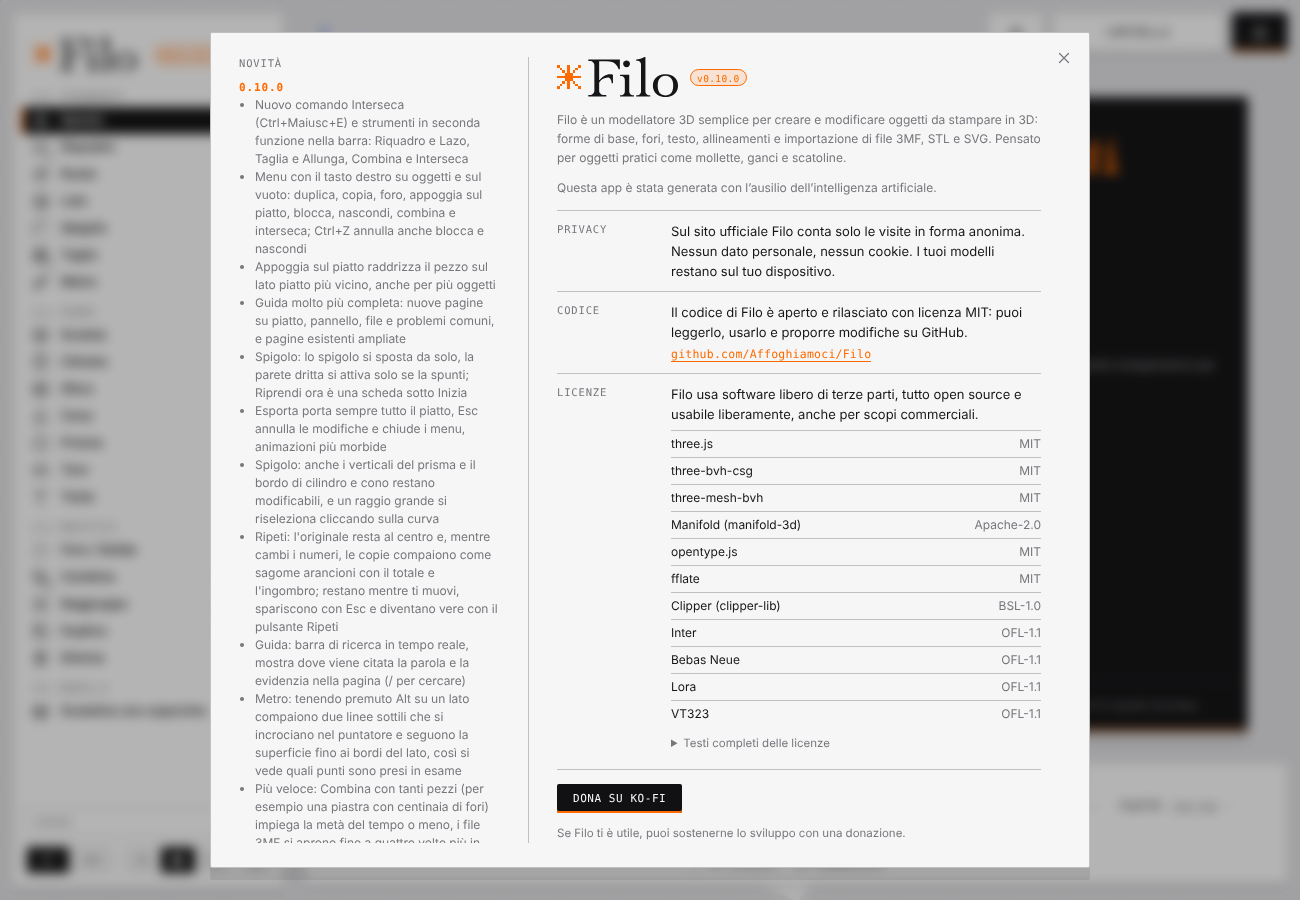
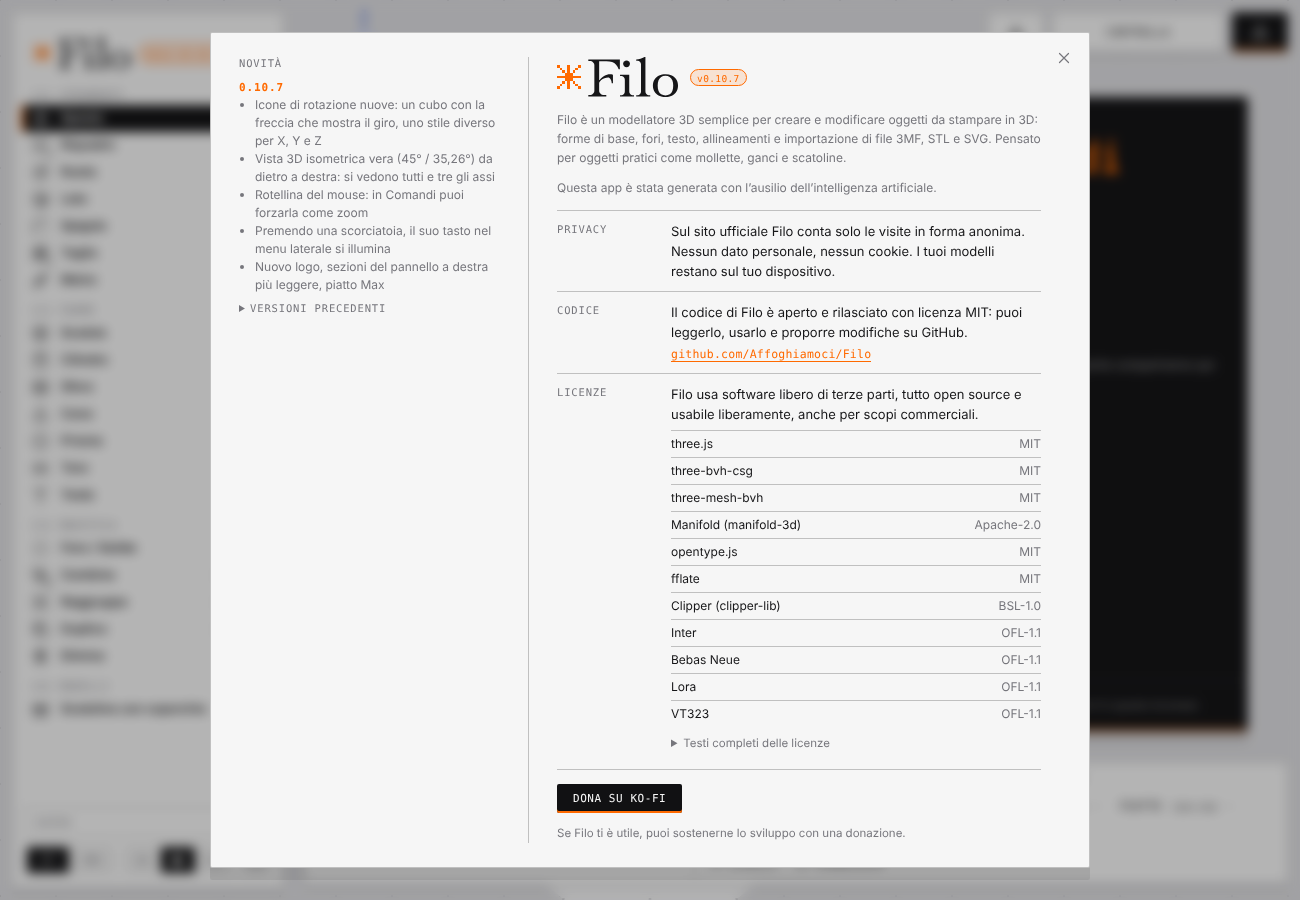
Vista 3D isometrica all'avvio, riparazione mesh che non peggiora i solidi chiusi, export con scelta della versione migliore, rimossi test obsoleti e varianti Plex
Claude-Session: https://claude.ai/code/session_01WMffiTQzqu1Hz4KkWX2bWH

Changed region(s): [[0.1846, 0.0933, 0.3692, 0.9333], [0.0923, 0.0311, 0.1231, 0.0622]]

diff --git a/src/main.js b/src/main.js
@@ -116,7 +116,7 @@ applyTheme();
 // Viste Davanti/Sopra/Destra: prospettiva quasi nulla (FOV minuscolo, camera lontana), quindi misure e allineamenti si leggono senza deformazioni.
 // cam.dist resta la distanza "equivalente" a FOV 35: l'inquadratura non cambia.
 const BASE_FOV = 35, ORTHO_FOV = 2, fovSprites = [];
-const cam = { az: 35, el: 28, dist: 320, fov: BASE_FOV, target: new THREE.Vector3(0, 0, 10) };
+const cam = { az: 135, el: 35.264, dist: 320, fov: BASE_FOV, target: new THREE.Vector3(0, 0, 10) };
 function applyCamera() {
   const az = cam.az * D2R, el = cam.el * D2R;
   const k = Math.tan(BASE_FOV * D2R / 2) / Math.tan(cam.fov * D2R / 2), D = cam.dist * k;
@@ -885,6 +885,18 @@ function openEdgeCount(g) {                                                    /
   for (let t = 0; t < tris.length; t += 3) for (let k = 0; k < 3; k++) { const e = key(tris[t + k], tris[t + (k + 1) % 3]); use.set(e, (use.get(e) || 0) + 1); }
   let c = 0; for (const u of use.values()) if (u === 1) c++; return c;
 }
+/* difetti di chiusura: lati senza il "gemello" opposto o usati più di una volta (0 = la mesh è chiusa, coordinate identiche tra triangoli vicini) */
+function edgeDefects(I) {
+  const use = new Map(); let bad = 0;
+  for (let t = 0; t < I.length; t += 3) for (let k = 0; k < 3; k++) { const a = I[t + k], b = I[t + (k + 1) % 3]; if (a === b) continue; const key = a * 4294967296 + b; use.set(key, (use.get(key) || 0) + 1); }
+  for (const [key, c] of use) { const a = Math.floor(key / 4294967296), b = key - a * 4294967296; if (c > 1 || use.get(b * 4294967296 + a) !== c) bad++; }
+  return bad;
+}
+function geoDefects(g) {
+  const p = g.attributes.position, idx = g.index, n = idx ? idx.count : p.count, map = new Map(), I = new Uint32Array(n);
+  for (let i = 0; i < n; i++) { const j = idx ? idx.getX(i) : i, k = p.getX(j) + ',' + p.getY(j) + ',' + p.getZ(j); let id = map.get(k); if (id === undefined) { id = map.size; map.set(k, id); } I[i] = id; }
+  return edgeDefects(I);
+}
 function bakeResult(res, name) {
   res.updateMatrixWorld(true);
   let g = res.geometry.clone();
@@ -892,7 +904,8 @@ function bakeResult(res, name) {
   g.applyMatrix4(res.matrixWorld);
   clean(g);
   if (window.__prof) console.log('PROF open prima', openEdgeCount(g), 'tri', g.attributes.position.count / 3);
-  g = healMesh(g);
+  { const d0 = geoDefects(g), h = healMesh(g);                                  // la riparazione (saldatura a 1 µm) non deve mai peggiorare: se rompe un pezzo già chiuso si tiene l'originale
+    if (h !== g && geoDefects(h) <= d0) g = h; }
   if (!g.index) g = geometryFromPositions(g.attributes.position.array);       // il risultato di Manifold arriva con normali piatte: si ricalcolano morbide (30°), così le pareti curve non fanno le fasce
   if (window.__prof) console.log('PROF open dopo', openEdgeCount(g));
   g.computeBoundingBox();
@@ -2447,12 +2460,22 @@ function build3MF(list, opt = {}) {
     m.updateMatrixWorld(true);
     let g = m.geometry.clone();
     g.deleteAttribute('normal'); g.deleteAttribute('uv');
-    g = mergeVertices(g, 1e-4);
-    const pos = g.attributes.position, idx = g.index;
-    const W = new Float32Array(pos.count * 3);
-    for (let k = 0; k < pos.count; k++) { v.fromBufferAttribute(pos, k).applyMatrix4(m.matrixWorld); W.set([+(v.x + off[0]).toFixed(4), +(v.y + off[1]).toFixed(4), +v.z.toFixed(4)], k * 3); }
-    const I0 = idx ? Uint32Array.from(idx.array) : Uint32Array.from({ length: pos.count }, (_, k) => k);
-    const R = repairForExport(W, I0);
+    const g0 = g;
+    const prep = (tol, dig) => {                                                 // tol: saldatura dei vertici; dig: decimali delle coordinate
+      const gg = tol ? mergeVertices(g0.clone(), tol) : g0.clone();
+      const pos = gg.attributes.position, idx = gg.index;
+      const W = new Float32Array(pos.count * 3);
+      for (let k = 0; k < pos.count; k++) { v.fromBufferAttribute(pos, k).applyMatrix4(m.matrixWorld); W.set([+(v.x + off[0]).toFixed(dig), +(v.y + off[1]).toFixed(dig), +v.z.toFixed(dig)], k * 3); }
+      const I0 = idx ? Uint32Array.from(idx.array) : Uint32Array.from({ length: pos.count }, (_, k) => k);
+      gg.dispose();
+      return repairForExport(W, I0);
+    };
+    let R = prep(1e-4, 4), bad = edgeDefects(R.I);
+    for (const [tol, dig] of bad ? [[1e-6, 6], [0, 7]] : []) {                    // saldatura e arrotondamento non devono rompere un pezzo: si riprova con più precisione e si tiene la versione migliore
+      const R2 = prep(tol, dig), b2 = edgeDefects(R2.I);
+      if (b2 < bad) { R = R2; bad = b2; }
+      if (!bad) break;
+    }
     { let vol = 0; for (let k = 0; k < R.I.length; k += 3) { const a = R.I[k] * 3, b = R.I[k + 1] * 3, c = R.I[k + 2] * 3, P = R.P; vol += (P[a] * (P[b + 1] * P[c + 2] - P[b + 2] * P[c + 1]) - P[a + 1] * (P[b] * P[c + 2] - P[b + 2] * P[c]) + P[a + 2] * (P[b] * P[c + 1] - P[b + 1] * P[c])) / 6; } if (Math.abs(vol) < 0.01 && list.length > 1) { if (opt.stat) opt.stat.dropped++; g.dispose(); return; } }
     let vs = '', ts = '';
     for (let k = 0; k < R.P.length; k += 3) vs += `<vertex x="${R.P[k]}" y="${R.P[k + 1]}" z="${R.P[k + 2]}"/>`;

diff --git a/src/index.template.html b/src/index.template.html
@@ -339,7 +339,7 @@
     <button id="info-close" class="icon-btn" aria-label="Chiudi"><svg viewBox="0 0 24 24"><path d="M6 6l12 12M18 6L6 18"/></svg></button>
     <div class="info-news"><span class="lbl">Novità</span><div class="cl">
       <b>0.10.7</b>
-      <ul><li>Icone di rotazione nuove: un cubo con la freccia che mostra il giro, uno stile diverso per X, Y e Z</li><li>Vista 3D isometrica vera (45° / 35,26°) da dietro a destra: si vedono tutti e tre gli assi</li><li>Rotellina del mouse: in Comandi puoi forzarla come zoom</li><li>Premendo una scorciatoia, il suo tasto nel menu laterale si illumina</li><li>Nuovo logo, sezioni del pannello a destra più leggere, piatto Max</li></ul>
+      <ul><li>Icone di rotazione nuove: un cubo con la freccia che mostra il giro, uno stile diverso per X, Y e Z</li><li>Vista 3D isometrica vera (45° / 35,26°) da dietro a destra: si vedono tutti e tre gli assi</li><li>Rotellina del mouse: in Comandi puoi forzarla come zoom</li><li>Premendo una scorciatoia, il suo tasto nel menu laterale si illumina</li><li>Nuovo logo, sezioni del pannello a destra più leggere, piatto Max</li><li>Calcoli più robusti sui pezzi con tanti dettagli piccoli (come le zigrinature): Filo non rovina più un solido già chiuso e l'esportazione sceglie la versione migliore</li><li>Vista 3D isometrica anche all'avvio</li></ul>
       <details><summary>Versioni precedenti</summary>
       <b>0.10.0</b>
       <ul><li>Nuovo comando Interseca (⇧⌘E) e strumenti in seconda funzione nella barra: Riquadro e Lazo, Taglia e Allunga, Combina e Interseca</li><li>Menu con il tasto destro su oggetti e sul vuoto: duplica, copia, foro, appoggia sul piatto, blocca, nascondi, combina e interseca; ⌘Z annulla anche blocca e nascondi</li><li>Appoggia sul piatto raddrizza il pezzo sul lato piatto più vicino, anche per più oggetti</li><li>Guida molto più completa: nuove pagine su piatto, pannello, file e problemi comuni, e pagine esistenti ampliate</li><li>Spigolo: lo spigolo si sposta da solo, la parete dritta si attiva solo se la spunti; Riprendi ora è una scheda sotto Inizia</li><li>Esporta porta sempre tutto il piatto, Esc annulla le modifiche e chiude i menu, animazioni più morbide</li><li>Spigolo: anche i verticali del prisma e il bordo di cilindro e cono restano modificabili, e un raggio grande si riseleziona cliccando sulla curva</li><li>Ripeti: l'originale resta al centro e, mentre cambi i numeri, le copie compaiono come sagome arancioni con il totale e l'ingombro; restano mentre ti muovi, spariscono con Esc e diventano vere con il pulsante Ripeti</li><li>Guida: barra di ricerca in tempo reale, mostra dove viene citata la parola e la evidenzia nella pagina (/ per cercare)</li><li>Metro: tenendo premuto ⌥ su un lato compaiono due linee sottili che si incrociano nel puntatore e seguono la superficie fino ai bordi del lato, così si vede quali punti sono presi in esame</li><li>Più veloce: Combina con tanti pezzi (per esempio una piastra con centinaia di fori) impiega la metà del tempo o meno, i file 3MF si aprono fino a quattro volte più in fretta, le ombre non si ricalcolano mentre giri la vista e Controlla stampa non blocca più il programma mentre lavora, con la percentuale di avanzamento</li><li>Il pannello delle proprietà è più largo: i numeri con segno e due decimali si leggono interi</li></ul>

diff --git a/src/i18n.js b/src/i18n.js
@@ -342,6 +342,8 @@ const EN = {
   'Rotellina del mouse: in Comandi puoi forzarla come zoom': 'Mouse wheel: in Controls you can force it as zoom',
   'Premendo una scorciatoia, il suo tasto nel menu laterale si illumina': 'Pressing a shortcut lights up its key in the side menu',
   'Nuovo logo, sezioni del pannello a destra più leggere, piatto Max': 'New logo, lighter sections in the right panel, Max plate',
+  'Calcoli più robusti sui pezzi con tanti dettagli piccoli (come le zigrinature): Filo non rovina più un solido già chiuso e l\'esportazione sceglie la versione migliore': 'More robust calculations on parts with many small details (such as knurling): Filo no longer damages an already closed solid and export picks the best version',
+  'Vista 3D isometrica anche all\'avvio': 'Isometric 3D view at startup too',
   'Nuovo comando Interseca (⇧⌘E) e strumenti in seconda funzione nella barra: Riquadro e Lazo, Taglia e Allunga, Combina e Interseca': 'New Intersect command (⇧⌘E) and tools with a second function in the bar: Marquee and Lasso, Cut and Stretch, Combine and Intersect',
   'I tuoi lavori salvati nella cache compariranno qui': 'Your work saved in the cache will show up here',
   'Si salva da solo, fino a 5 lavori in questo browser.': 'It saves itself, up to 5 works in this browser.',

diff --git a/src/mcsg.js b/src/mcsg.js
@@ -30,6 +30,21 @@ export function toManifold(brush) {
   } catch (e) { return null; }                                     // non è un solido chiuso
 }
 
+// vero se Manifold accetta la mesh come solido chiuso (null se il motore non è pronto). P: posizioni xyz, I: indici dei triangoli (o null se la mesh non è indicizzata)
+export function meshIsClosed(P, I) {
+  if (!M) return null;
+  let m = null;
+  try {
+    const tv = I ? Uint32Array.from(I) : Uint32Array.from({ length: P.length / 3 }, (_, k) => k);
+    const mesh = new M.Mesh({ numProp: 3, vertProperties: Float32Array.from(P), triVerts: tv });
+    mesh.merge();
+    m = new M.Manifold(mesh);
+    return m.status() === 'NoError';
+  } catch (e) { return false; }
+  finally { try { m && m.delete(); } catch (e) {} }
+}
+export const geoIsClosed = g => meshIsClosed(g.attributes.position.array, g.index ? g.index.array : null);
+
 function toBrush(m, material) {
   const mesh = m.getMesh(), vp = mesh.vertProperties, tv = mesh.triVerts, nP = mesh.numProp;
   const pos = new Float32Array(tv.length * 3);

diff --git a/tests/t78.py b/tests/t78.py
@@ -1,0 +1,31 @@
+from playwright.sync_api import sync_playwright
+import sys,random
+OK=True
+JS="""(a)=>{const M=forma.MM(), Mf=M.Manifold, T=forma.THREE;
+ // pezzi con vertici quasi coincidenti (scarti sotto il micron), tipici di booleane su tessellazioni diverse
+ const {n1,n2,d,N,rh,R,hseg}=a;
+ const A=Mf.cylinder(9.61,R,R,n1,true).translate([0,0,4.8]);
+ const B=Mf.cylinder(9.61,R+d,R+d,n1,true).rotate([0,0,d*40]).translate([0,0,4.8]);
+ let U=Mf.union([A,B]); const hs=[]; for(let i=0;i<N;i++){const t=i/N*Math.PI*2; hs.push(Mf.cylinder(12,rh,rh,hseg,true).translate([(R+0.1)*Math.cos(t),(R+0.1)*Math.sin(t),4.8]));}
+ U=U.subtract(Mf.union(hs)); const hole=Mf.cylinder(12,4.4,4.4,200,true).translate([0,0,4.8]); U=U.subtract(hole);
+ const mesh=U.getMesh(), vp=mesh.vertProperties, tv=mesh.triVerts, nP=mesh.numProp;
+ const pos=new Float32Array(tv.length*3); for(let i=0;i<tv.length;i++){const k=tv[i]*nP;pos[i*3]=vp[k];pos[i*3+1]=vp[k+1];pos[i*3+2]=vp[k+2];}
+ const g=new T.BufferGeometry(); g.setAttribute('position',new T.BufferAttribute(pos,3)); const m=new T.Mesh(g); m.updateMatrixWorld(true);
+ const count=(geo)=>{const p=geo.attributes.position, idx=geo.index, n=idx?idx.count:p.count; const map=new Map(); const ids=new Int32Array(n);
+   for(let i=0;i<n;i++){const j=idx?idx.getX(i):i; const k=p.getX(j)+','+p.getY(j)+','+p.getZ(j); let id=map.get(k); if(id===undefined){id=map.size;map.set(k,id);} ids[i]=id;}
+   const e=new Map(); for(let t=0;t<n;t+=3){const a=ids[t],b=ids[t+1],c=ids[t+2]; if(a==b||b==c||a==c)continue; for(const [x,y] of [[a,b],[b,c],[c,a]]){const k=x+'>'+y; e.set(k,(e.get(k)||0)+1);} }
+   let unp=0,dup=0; for(const [k,c] of e){const [x,y]=k.split('>'); if((e.get(y+'>'+x)||0)!==c)unp++; if(c>1)dup++;} return unp+dup;};
+ const before=count(g); const baked=forma.bakeResult(m,'t'); return [g.attributes.position.count/3,before,baked.geo.index?baked.geo.index.count/3:baked.geo.attributes.position.count/3,count(baked.geo)];}"""
+with sync_playwright() as p:
+    b=p.chromium.launch(); pg=b.new_page(); pg.goto('file:///tmp/forma/dist/forma.html'); pg.wait_for_timeout(1500)
+    az,el=pg.evaluate("[forma.cam.az,forma.cam.el]"); ok0=abs(az-135)<0.5 and abs(el-35.264)<0.5
+    print(('OK ' if ok0 else 'KO ')+'la vista all\'avvio è quella isometrica (45°/35,26°)')
+    random.seed(5); bad=0; n=0
+    for i in range(20):
+        a=dict(n1=random.choice([97,128,200,255]),n2=100,d=random.choice([0.0001,0.0007,0.002,0.01]),N=random.choice([96,100]),rh=random.choice([0.4,0.5]),R=random.choice([12.4,12.9]),hseg=random.choice([16,32]))
+        r=pg.evaluate(JS,a); n+=1; bad+= 1 if r[3] else 0
+    print(('OK ' if bad==0 else 'KO ')+f'dopo il calcolo, {n} anelli zigrinati restano chiusi ({bad} rotti)')
+    # esportazione: il 3MF di un pezzo chiuso resta chiuso
+    ex=pg.evaluate("""(()=>{forma.createObject('cylinder');const o=forma.objects.at(-1);return forma.build3MF([o]).length}) ()""")
+    print('OK' if ex>1000 else 'KO','export 3MF produce dati',ex)
+    print('TUTTO OK' if ok0 and bad==0 and ex>1000 else 'FALLITO'); b.close()

diff --git a/tests/t56.py b/tests/t56.py
@@ -3,7 +3,7 @@ with sync_playwright() as p:
     b=p.chromium.launch(args=["--use-gl=swiftshader"]);pg=b.new_page(viewport={'width':1400,'height':850})
     errs=[];pg.on('pageerror',lambda e:errs.append(str(e)));pg.on('console',lambda m: m.type=='error' and errs.append(m.text))
     pg.goto('file:///tmp/forma/dist/forma.html');pg.wait_for_timeout(1000)
-    pg.evaluate("forma.createObject('cylinder');forma.createObject('box');forma.objects[1].position.set(40,0,0);forma.objects[0].position.set(-5,0,0);forma.fitView()");pg.wait_for_timeout(500)
+    pg.evaluate("forma.createObject('cylinder');forma.createObject('box');forma.objects[1].position.set(40,0,0);forma.objects[0].position.set(-5,0,0);forma.cam.az=35;forma.cam.el=28;forma.fitView()");pg.wait_for_timeout(500)
     pg.keyboard.press('e');pg.wait_for_timeout(200)
     # project top rim point of box edge
     pt=pg.evaluate("""(()=>{const o=forma.objects[1];const an=forma.edgeAnalysis(o);const e=an.sharp.find(e=>an.vp(e.a).z>19&&an.vp(e.b).z>19&&Math.abs(an.vp(e.a).y-an.vp(e.b).y)<1&&an.vp(e.a).y<0);
